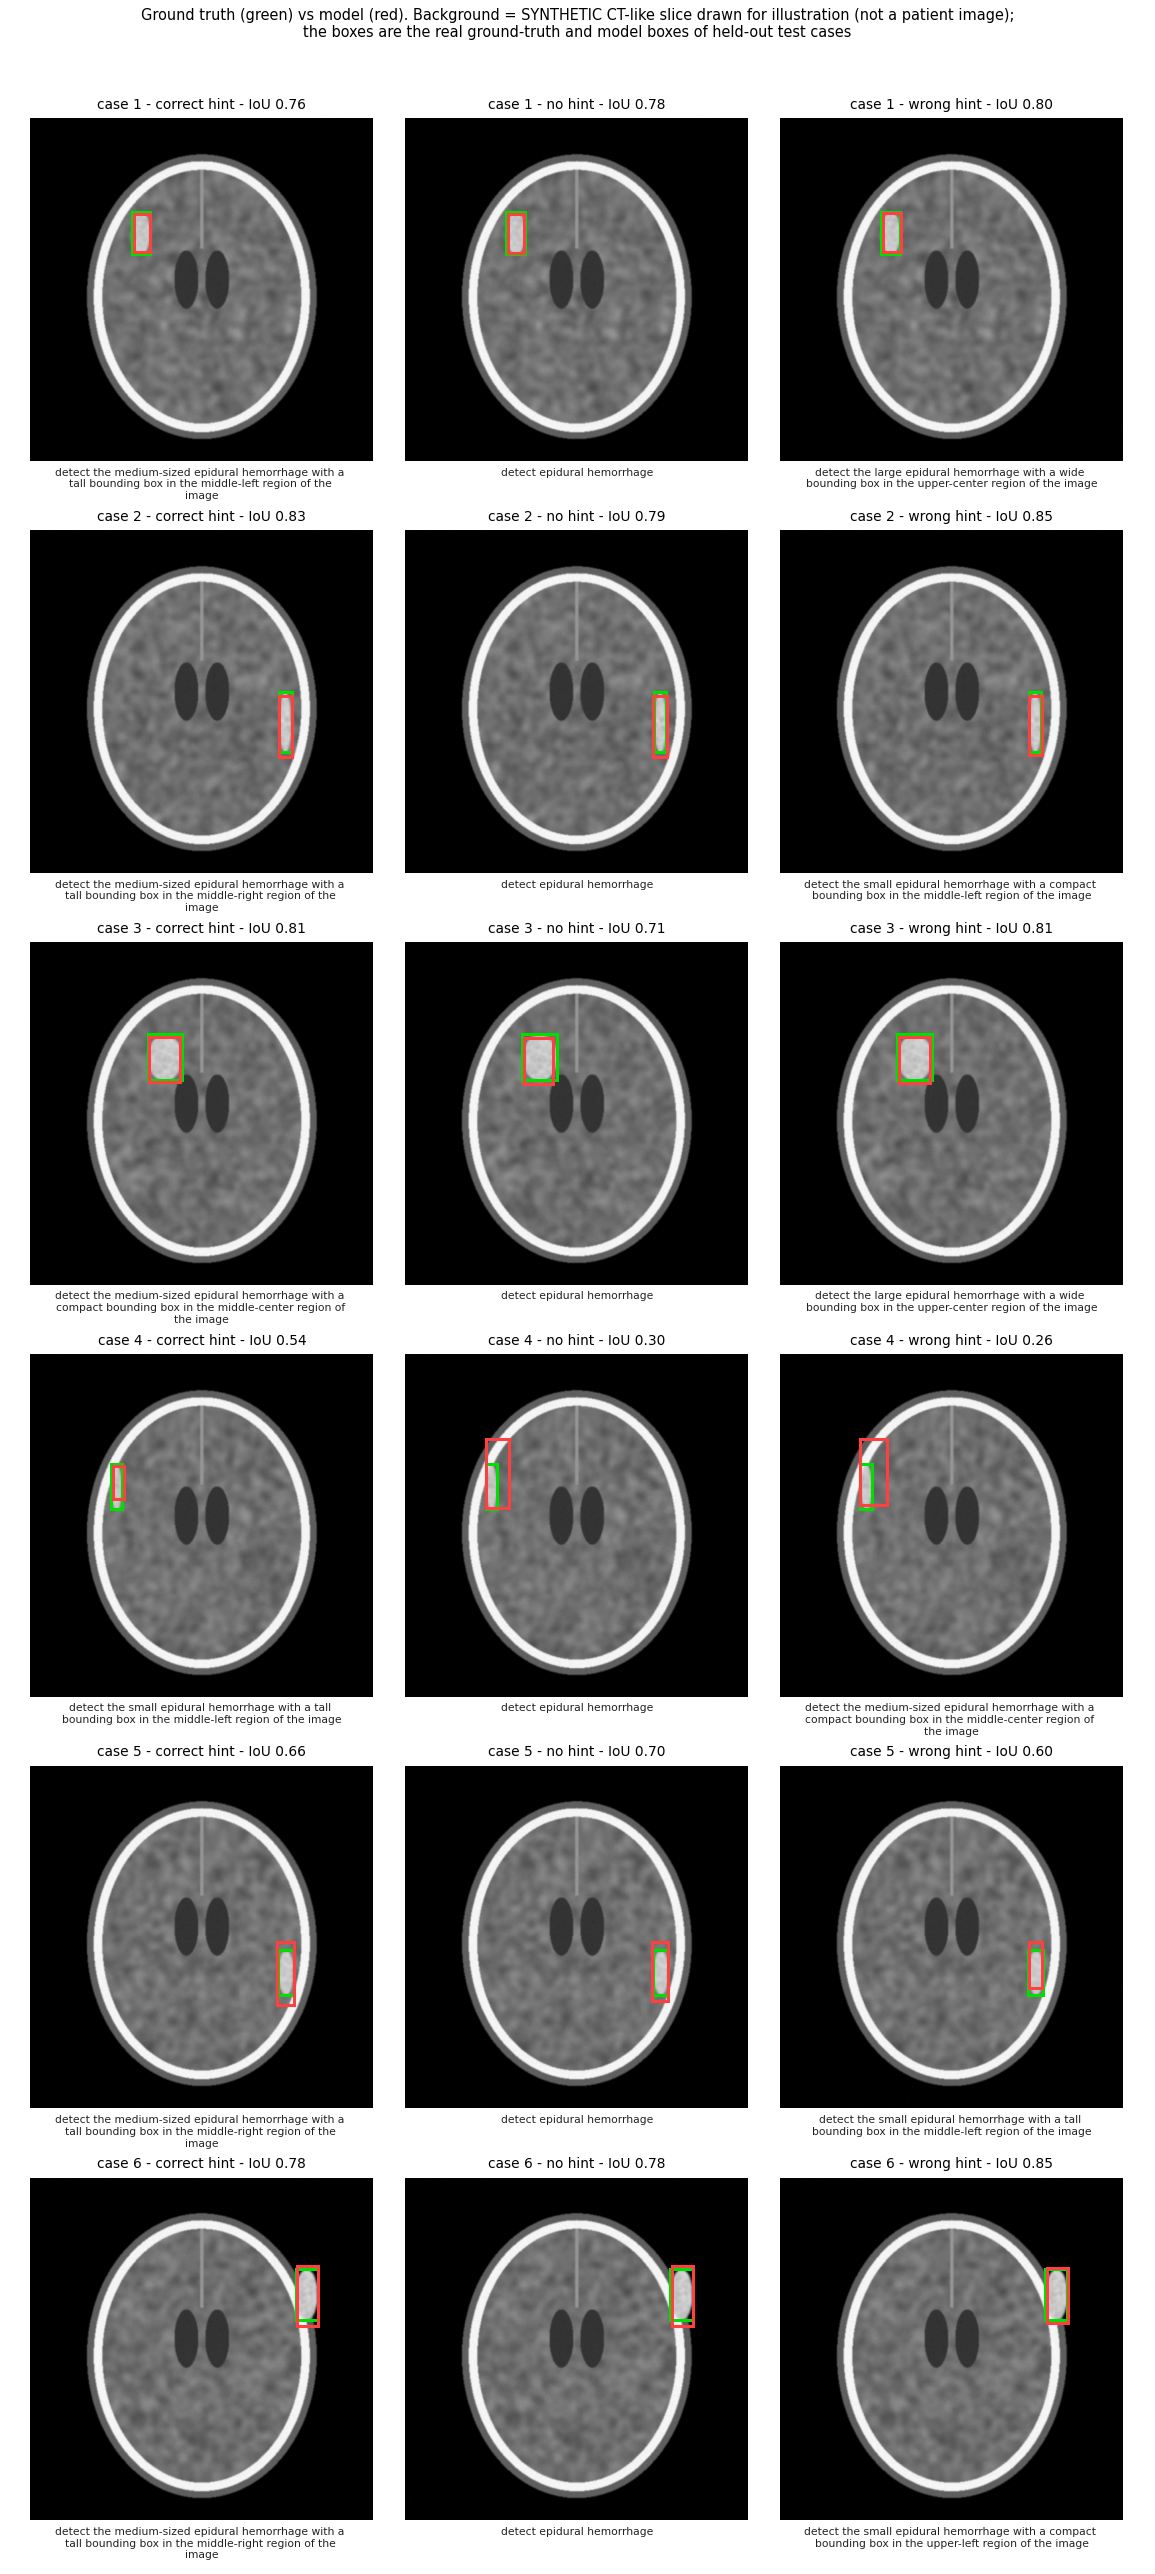
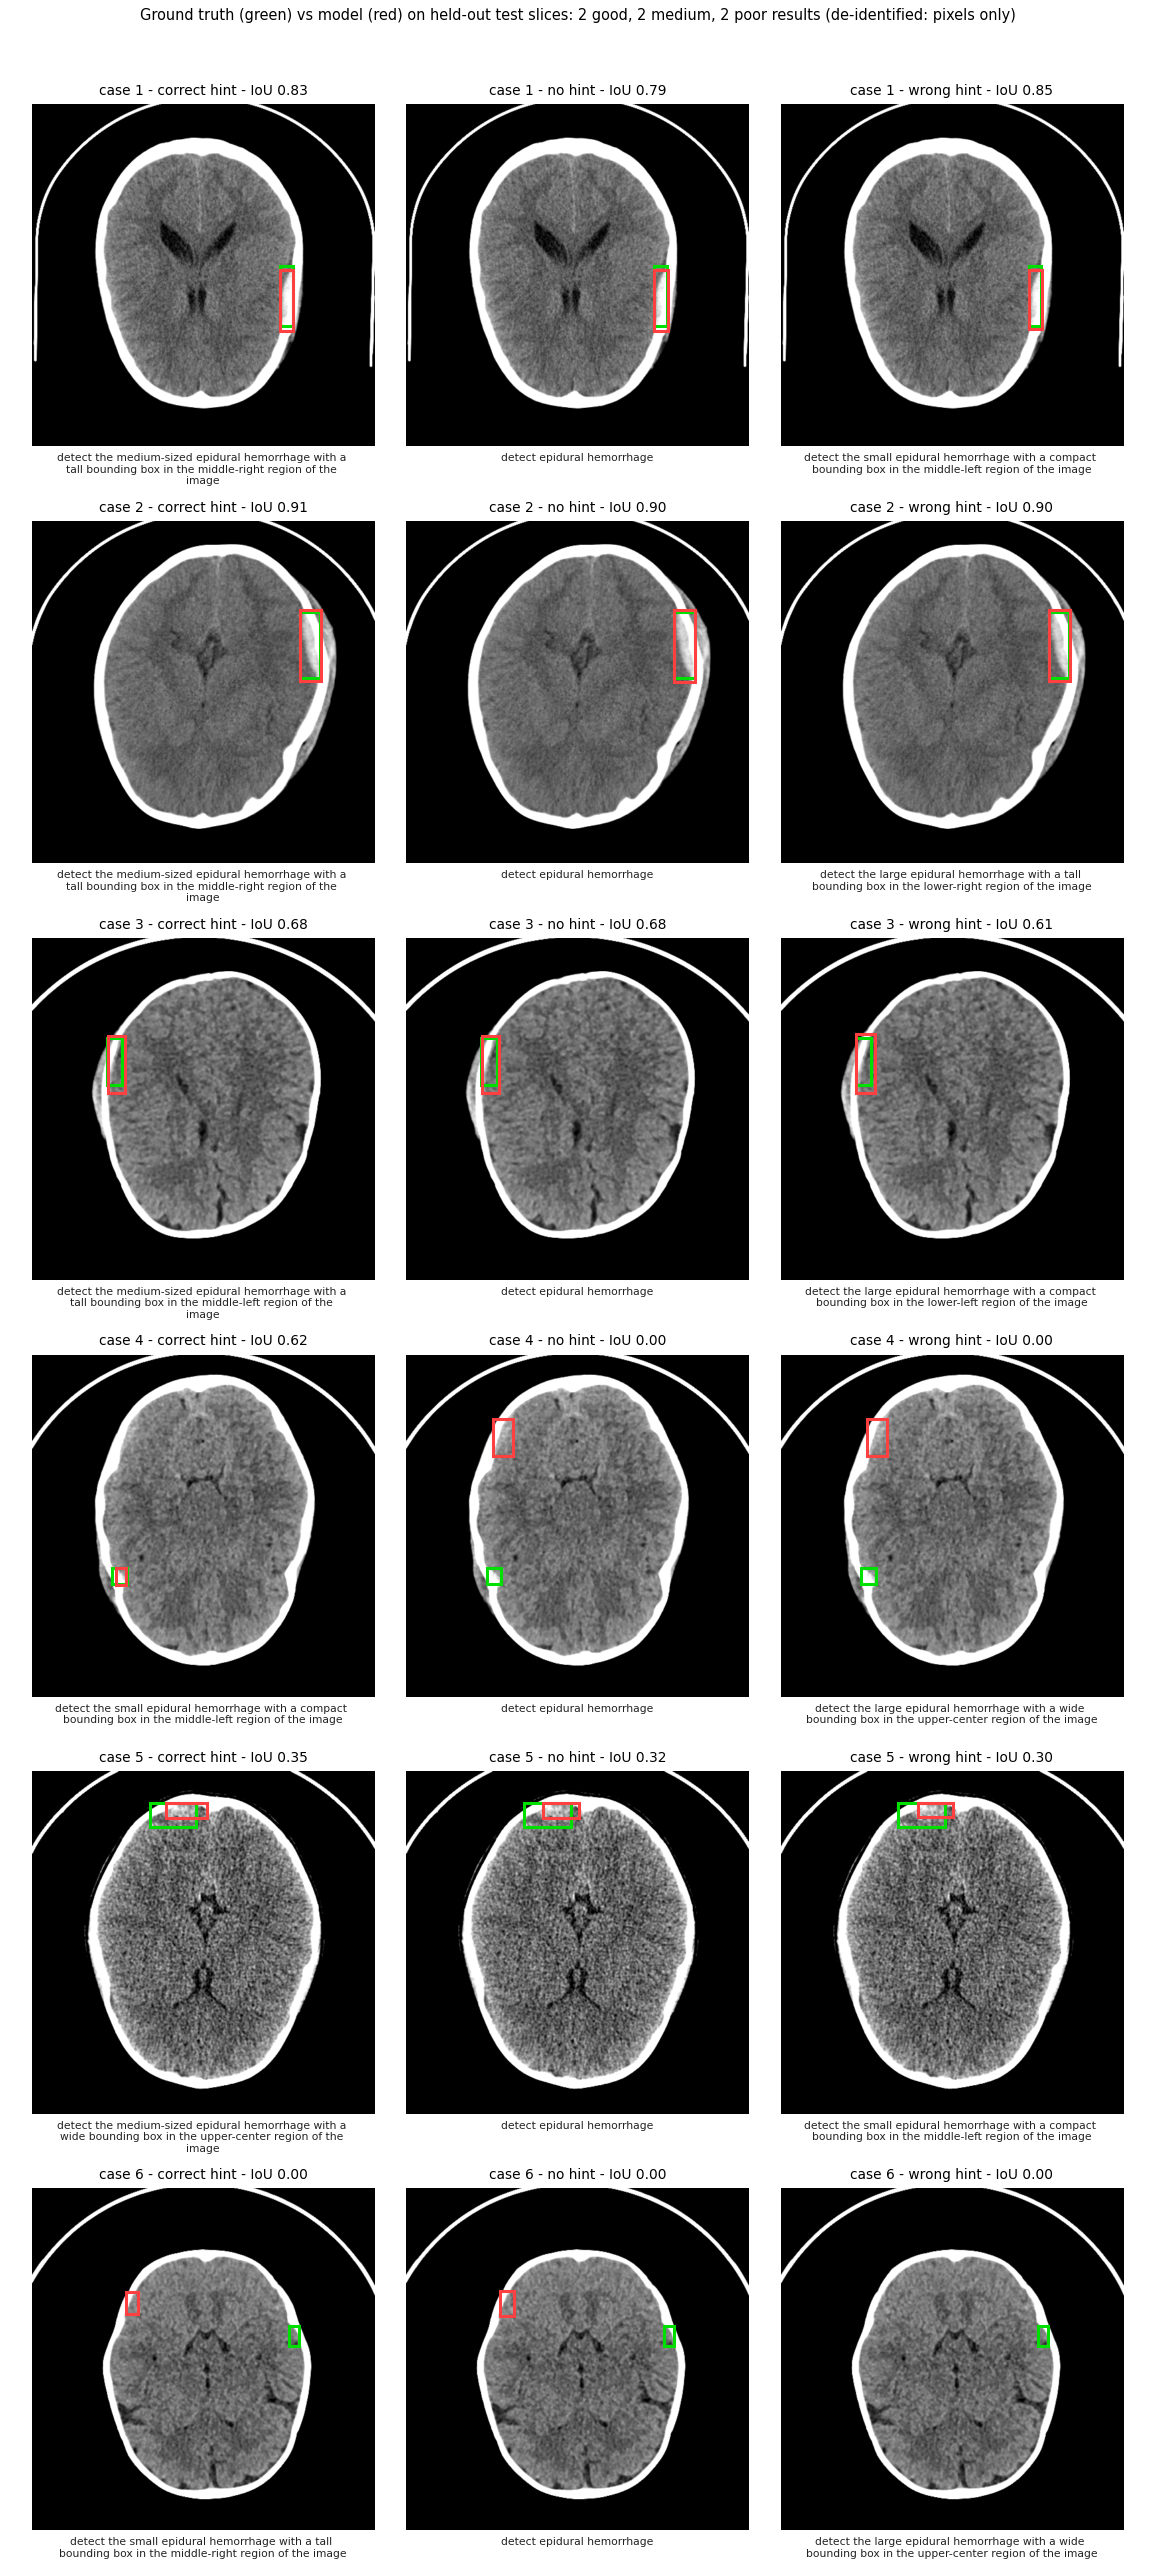
Update README, detection result figure, and figure-generation script

diff --git a/scripts/make_result_figures.py b/scripts/make_result_figures.py
@@ -1,7 +1,7 @@
 """
 make_result_figures.py -- turn the raw evaluation outputs into SHAREABLE results (no patient images, no real identifiers):
   * charts (detection IoU by prompt type, per-fact caption accuracy vs baseline, confusion matrices, training curves)
-  * box drawings on a SYNTHETIC CT-like slice (procedurally drawn, not a scan): ground-truth box (green) vs model box (red) with the prompt
+  * box drawings on de-identified held-out test slices (--det_images_dir; without it a SYNTHETIC CT-like slice is drawn instead): ground-truth box (green) vs model box (red) with the prompt
   * anonymised text tables: generated vs ground-truth captions (patients -> P01.., lesions -> case_001..)
 
 Inputs (all produced by the evaluation scripts of this repo):
@@ -97,8 +97,12 @@ def synth_ct_slice(gt, seed, n=512):
     return np.clip(cv2.GaussianBlur(img, (0, 0), 0.8), 0, 255).astype(np.uint8)
 
 
-def head_canvas(ax, gt=None, seed=0):
+def head_canvas(ax, gt=None, seed=0, real=None):
     ax.set_xlim(0, 1); ax.set_ylim(1, 0); ax.set_aspect("equal"); ax.axis("off")
+    if real is not None:                # real held-out slice: pixels only (grey), the file name is never shown or stored
+        from PIL import Image as _I
+        ax.imshow(np.asarray(_I.open(real).convert("L")), cmap="gray", vmin=0, vmax=255, extent=(0, 1, 1, 0), interpolation="bilinear")
+        return
     ax.imshow(synth_ct_slice(gt if gt else [0, 0, 0, 0], seed), cmap="gray", vmin=0, vmax=255, extent=(0, 1, 1, 0), interpolation="bilinear")
 
 
@@ -137,20 +141,43 @@ def detection(a, out):
     # ---- schematic box drawings, 6 random cases x 3 prompts
     rows = sorted(set(by["matched"]) & set(by["baseline"]) & set(by["mismatched"]))
     rnd = random.Random(3); rnd.shuffle(rows)
-    pick = rows[:6]
+    cand, seen_pat = [], set()
+    for i in rows:                       # one slice per patient
+        pat = by["matched"][i]["image"].split("_")[0]
+        if pat in seen_pat:
+            continue
+        if a.det_images_dir:             # real slices: square, brain-level only (no skull-base / face slices)
+            from PIL import Image as _I
+            im_ = _I.open(Path(a.det_images_dir) / by["matched"][i]["image"]).convert("L")
+            if im_.size[0] != im_.size[1]:
+                continue
+            c_ = np.asarray(im_)[int(.3 * im_.size[1]):int(.7 * im_.size[1]), int(.3 * im_.size[0]):int(.7 * im_.size[0])]
+            if np.mean((c_ >= 60) & (c_ <= 170)) < 0.55:
+                continue
+            L_ = np.asarray(im_)[int(.55 * im_.size[1]):int(.85 * im_.size[1]), int(.35 * im_.size[0]):int(.65 * im_.size[0])]
+            if np.mean(L_ >= 230) > 0.03:        # bone in the lower-central area = skull-base / orbit level -> skip
+                continue
+        seen_pat.add(pat); cand.append(i)
+    def m_iou(i):
+        g, p_ = boxes(by["matched"][i]["gt"]), boxes(by["matched"][i]["pred"])
+        return iou(g, p_) if g and p_ else 0.0
+    # 2 good (IoU>=0.7), 2 medium (0.4-0.7), 2 poor (<0.4) with the correct hint -> not cherry-picked
+    bins = [[i for i in cand if m_iou(i) >= 0.7], [i for i in cand if 0.4 <= m_iou(i) < 0.7], [i for i in cand if m_iou(i) < 0.4]]
+    pick = [i for b_ in bins for i in b_[:2]] if a.det_images_dir else cand[:6]
     fig, axs = plt.subplots(len(pick), 3, figsize=(10.5, 3.9 * len(pick)))
     for k, i in enumerate(pick):
         for j, c in enumerate(("matched", "baseline", "mismatched")):
             ax = axs[k][j]
             g, p = boxes(by[c][i]["gt"]), boxes(by[c][i]["pred"])
-            head_canvas(ax, g, seed=k)
+            head_canvas(ax, g, seed=k, real=(Path(a.det_images_dir) / by[c][i]["image"]) if a.det_images_dir else None)
             ax.add_patch(Rectangle((g[0], g[1]), g[2] - g[0], g[3] - g[1], fill=False, ec="#00e000", lw=2))
             if p:
                 ax.add_patch(Rectangle((p[0], p[1]), p[2] - p[0], p[3] - p[1], fill=False, ec="#ff4040", lw=2))
             u = iou(g, p) if p else 0.0
             ax.set_title(f"case {k + 1} - {names[c]} - IoU {u:.2f}", fontsize=9)
             ax.text(0.5, -0.02, "\n".join(re.findall(r".{1,52}(?:\s|$)", by[c][i]["prompt"])), transform=ax.transAxes, va="top", ha="center", fontsize=7, color="#222")
-    fig.suptitle("Ground truth (green) vs model (red). Background = SYNTHETIC CT-like slice drawn for illustration (not a patient image);\nthe boxes are the real ground-truth and model boxes of held-out test cases", y=0.997, fontsize=9.5)
+    fig.suptitle(("Ground truth (green) vs model (red) on held-out test slices: 2 good, 2 medium, 2 poor results (de-identified: pixels only)" if a.det_images_dir else
+                  "Ground truth (green) vs model (red). Background = SYNTHETIC CT-like slice (not a patient image);\nthe boxes are the real ground-truth and model boxes of held-out test cases"), y=0.997, fontsize=9.5)
     fig.tight_layout(rect=(0, 0, 1, 0.985)); fig.savefig(out / "detection_boxes_by_prompt.png", dpi=110); plt.close(fig)
     # ---- validation curve
     if a.det_metrics:
@@ -233,6 +260,7 @@ def captioning(a, out):
 def main():
     ap = argparse.ArgumentParser()
     ap.add_argument("--det_jsonl"); ap.add_argument("--det_summary"); ap.add_argument("--det_metrics")
+    ap.add_argument("--det_images_dir", default=None, help="folder with the test slices (by file name): draw the boxes on the REAL slices instead of a synthetic one")
     ap.add_argument("--cap_jsonl"); ap.add_argument("--cap_summary"); ap.add_argument("--cap_metrics")
     ap.add_argument("--out", default=str(REPO / "results"))
     a = ap.parse_args()

diff --git a/README.md b/README.md
@@ -11,8 +11,9 @@ Both fine-tune [`google/paligemma2-3b-pt-448`](https://huggingface.co/google/pal
 
 > **This is a research/engineering project, not a medical device.** Captions are objective *visual measurements* of the lesion
 > (elongation, direction, outline regularity, brightness, texture variation), not diagnoses or clinical findings.
-> **No patient data, images or model weights are included in this repository** (see [Data](#data)); all pictures below are charts,
-> box drawings on a synthetic CT-like slice, or synthetic shapes.
+> **No dataset and no model weights are included in this repository** (see [Data](#data)). The only patient-derived pixels are the
+> six de-identified held-out test slices in `results/detection_boxes_by_prompt.png` (pixels only; no names, identifiers or metadata),
+> shown to illustrate the box outputs; all other pictures are charts or synthetic shapes.
 
 ## Results (held-out test patients)
 
@@ -35,7 +36,7 @@ The model is trained with prompts that describe the lesion's size / shape / regi
 
 ![IoU by prompt](results/detection_iou_by_prompt.png)
 ![boxes](results/detection_boxes_by_prompt.png)
-*The background is a **synthetic** CT-like slice drawn for illustration (not a patient image, not derived from one); the green and red boxes are the real ground-truth and model boxes of held-out test cases.*
+*Six held-out test slices, one per patient, de-identified (pixels only, no names or metadata), chosen by result quality: 2 good, 2 medium, 2 poor (IoU with the correct hint ≥ 0.7, 0.4–0.7, < 0.4), restricted to brain-level slices. Green = ground truth, red = model.*
 
 Validation mAP peaked around epoch 9–10 and then slowly declined (over-fitting), so the epoch-10 snapshot (best on *validation*) was used for the test:
 ![validation curve](results/detection_validation_curve.png)
@@ -74,7 +75,7 @@ captioning/   image -> caption:  build_captioning_dataset.py  build_lesion_only_
 common/       shared training code: resume/checkpoint callbacks, warm-up+cosine schedule, LoRA-dropout patch, augmentation, mAP metric
 scripts/      run_detection.sh, run_captioning.sh (convenience wrappers), make_result_figures.py (private outputs -> shareable results)
 tests/        test_no_data.py (synthetic, CPU only)
-results/      charts, box drawings on a synthetic CT-like slice, anonymised summaries
+results/      charts, box drawings on six de-identified test slices, anonymised summaries
 docs/         data_format.md, detection.md, captioning.md
 ```
 
@@ -122,7 +123,7 @@ python training/compare_captions.py --split test          # generated vs ground-
 Small data (79 patients, near-duplicate consecutive slices → wide patient-level confidence intervals); the detection hint is an oracle; the caption labels are threshold-based (terciles fitted on the training set) so errors concentrate at level boundaries; no clinical validation; PNG grey values are not Hounsfield units and directions are image directions, not anatomical.
 
 ## Data
-Not included and not redistributable. The code expects COCO annotations, PNG slices and (for captioning) binary lesion masks; see [docs/data_format.md](docs/data_format.md). Model weights are not published either.
+The dataset is not included and not redistributable (apart from the six de-identified slices above). The code expects COCO annotations, PNG slices and (for captioning) binary lesion masks; see [docs/data_format.md](docs/data_format.md). Model weights are not published either.
 
 ## License
 The code in this repository is released under the [MIT License](LICENSE). The MIT licence covers this repository's code only:
